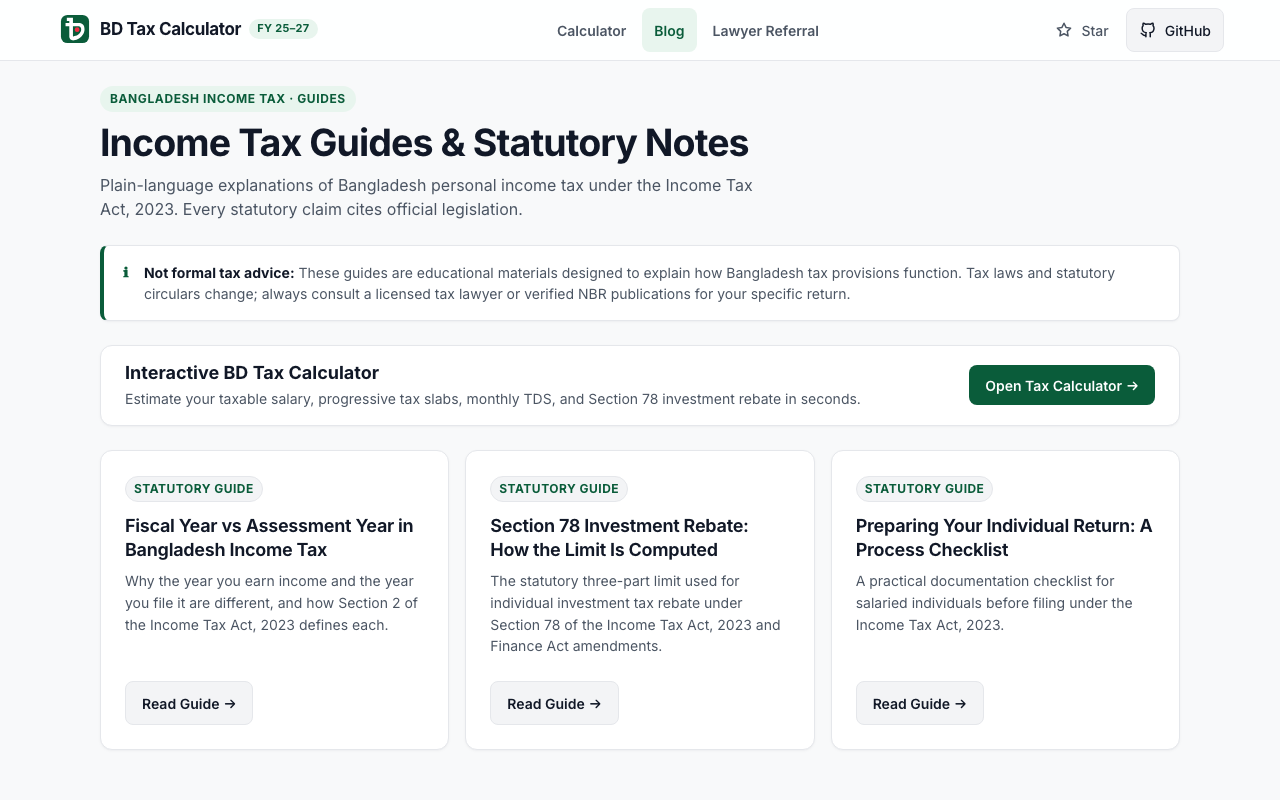
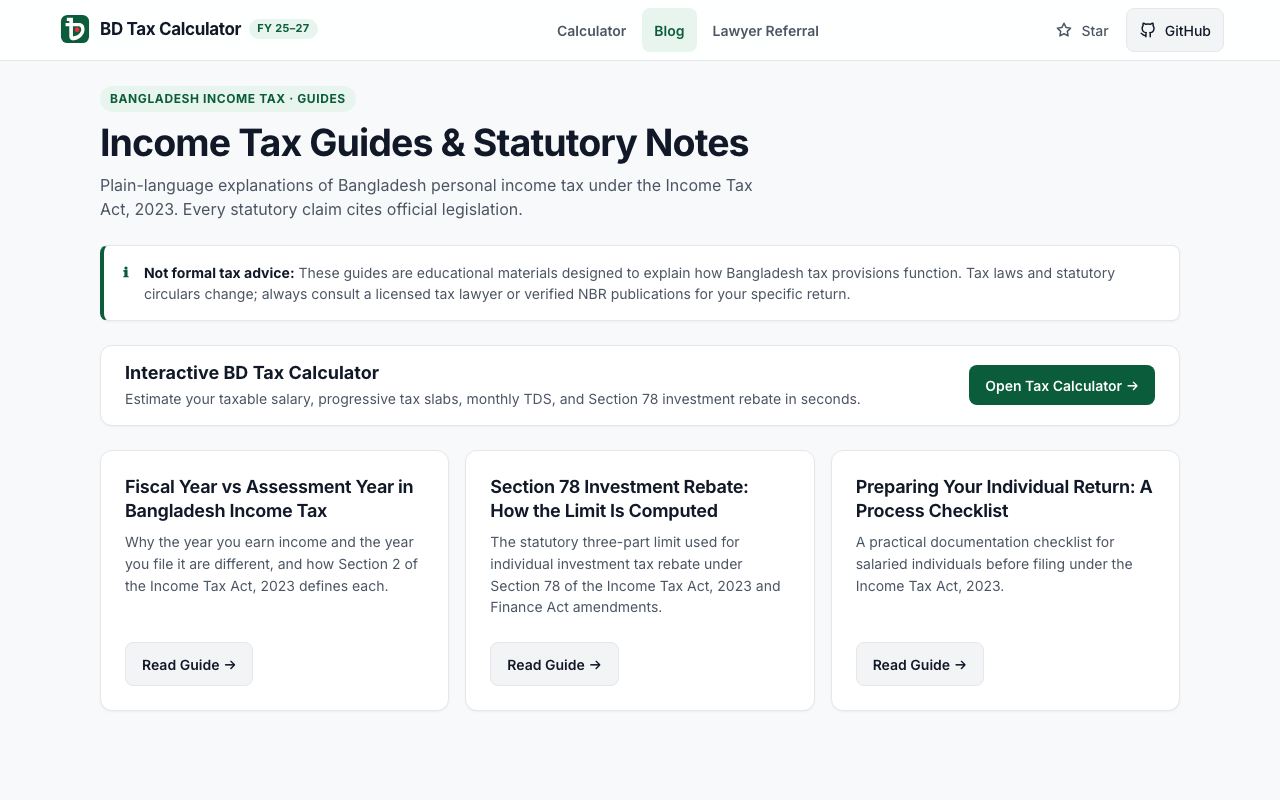
fix(ui): address reviewer feedback on nav landmark, blog card tag and reduced-motion

diff --git a/src/pages/Blog.vue b/src/pages/Blog.vue
@@ -33,9 +33,6 @@
           :key="post.slug"
           class="post-card"
         >
-          <div class="card-badge-row" aria-hidden="true">
-            <span class="card-tag">Statutory Guide</span>
-          </div>
           <header class="card-header">
             <h2>
               <router-link :to="`/blog/${post.slug}`" class="post-title-link">
@@ -235,22 +232,14 @@ export default {
   transform: translateY(-2px);
 }
 
-.card-badge-row {
-  margin-bottom: var(--space-3);
-}
+@media (prefers-reduced-motion: reduce) {
+  .post-card {
+    transition: none;
+  }
 
-.card-tag {
-  display: inline-flex;
-  align-items: center;
-  padding: 3px 8px;
-  border-radius: var(--radius-pill);
-  background: var(--surface-muted);
-  border: 1px solid var(--border);
-  color: var(--accent);
-  font-size: var(--text-xs);
-  font-weight: 700;
-  letter-spacing: 0.04em;
-  text-transform: uppercase;
+  .post-card:hover {
+    transform: none;
+  }
 }
 
 .card-header {

diff --git a/src/components/Navbar.vue b/src/components/Navbar.vue
@@ -25,11 +25,11 @@
       </div>
 
       <!-- Primary nav links -->
-      <div class="primary-nav" aria-label="Site pages">
+      <nav class="primary-nav" aria-label="Site pages">
         <router-link to="/" class="nav-link" exact>Calculator</router-link>
         <router-link to="/blog" class="nav-link" :class="{ 'router-link-active': $route.path.startsWith('/blog') }">Blog</router-link>
         <router-link to="/referrals" class="nav-link">Lawyer Referral</router-link>
-      </div>
+      </nav>
 
       <!-- Action buttons -->
       <div class="navbar-actions">
@@ -292,7 +292,6 @@ export default {
 </script>
 
 <style scoped>
-/* ponytail: Flexbox navbar with CSS wrap. Upgrade to full mobile drawer component if site navigation exceeds 4 primary routes. */
 .skip-link {
   position: absolute;
   top: -48px;

diff --git a/src/pages/BlogPost.vue b/src/pages/BlogPost.vue
@@ -129,7 +129,7 @@ export default {
 </script>
 
 <style scoped>
-/* ponytail: 65-character max-width container for reading column. Upgrade to sidebar layout if table-of-contents is needed. */
+/* ponytail: Constrained reading column for optimal line length. Upgrade to sidebar layout if table-of-contents is needed. */
 .article-page {
   min-height: calc(100vh - 64px);
   padding: var(--space-5) var(--space-4) var(--space-6);

diff --git a/src/assets/styles/tokens.css b/src/assets/styles/tokens.css
@@ -1,5 +1,4 @@
 :root {
-  /* ponytail: CSS custom properties provide native theme tokens without runtime styling overhead. Upgrade to full CSS design system if multi-theme is needed. */
   color-scheme: light;
   --bg: #f8f9fa;
   --surface: #ffffff;
@@ -8,7 +7,6 @@
   --border-strong: #d1d5db;
   --text: #111827;
   --text-muted: #4b5563;
-  --text-subtle: #6b7280;
 
   --accent: #0a5c3a;
   --accent-hover: #07492e;

diff --git a/src/components/Salaries.vue b/src/components/Salaries.vue
@@ -202,7 +202,6 @@ export default {
 </script>
 
 <style scoped>
-/* ponytail: Native HTML table with horizontal scroll wrapper for monthly earnings. Upgrade to virtualized data grid if multi-year monthly editing is required. */
 .unit-note {
   margin: 0 0 var(--space-3);
   font-size: var(--text-sm);

diff --git a/src/components/Investment.vue b/src/components/Investment.vue
@@ -168,7 +168,6 @@ export default {
 </script>
 
 <style scoped>
-/* ponytail: Native HTML table for Section 78 investment lines. Upgrade to card-based form if individual investment documentation uploads are added. */
 .empty-state {
   margin-bottom: var(--space-4);
   padding: var(--space-4);

diff --git a/src/components/TaxComparison.vue b/src/components/TaxComparison.vue
@@ -339,7 +339,6 @@ export default {
 </script>
 
 <style scoped>
-/* ponytail: Single sticky verdict card with CSS grid comparison tiles. Upgrade to modal dialog if more breakdown charts are added. */
 .tax-comparison-summary {
   background: var(--surface);
   border: 1px solid var(--border);

diff --git a/src/components/Calculation-2026.vue b/src/components/Calculation-2026.vue
@@ -88,7 +88,6 @@ export default {
 </script>
 
 <style scoped>
-/* ponytail: Native HTML table for progressive slab calculation breakdown. Upgrade to interactive waterfall chart if visual tax progression graph is requested. */
 .invoice {
   width: 100%;
   border-collapse: collapse;

diff --git a/src/components/TaxpayerProfile.vue b/src/components/TaxpayerProfile.vue
@@ -216,7 +216,6 @@ export default {
 </script>
 
 <style scoped>
-/* ponytail: Native accessible radio chips and toggle switches. Upgrade to design-system component library if multi-brand theming is introduced. */
 .taxpayer-profile {
   display: flex;
   flex-direction: column;

diff --git a/src/pages/Home.vue b/src/pages/Home.vue
@@ -89,7 +89,6 @@ export default {
 </script>
 
 <style scoped>
-/* ponytail: Two-pane CSS grid on desktop, single-column stack on mobile. Upgrade to resizable panes if user customization is requested. */
 #home-page {
   color: var(--text);
   min-height: 100vh;
